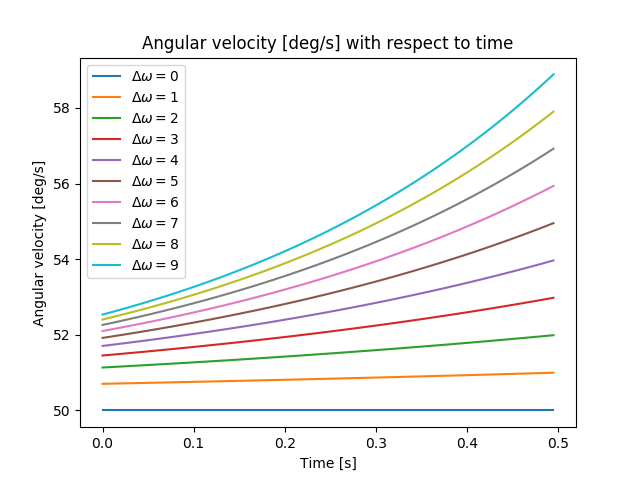
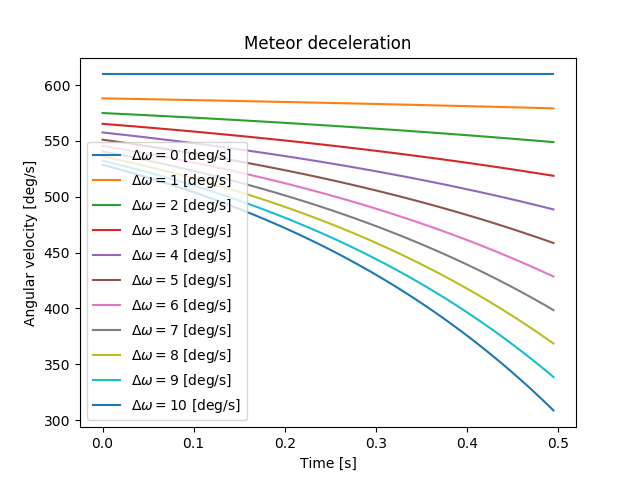
changed plotting parameters for the deceleration plot

diff --git a/Source/DecelerationPlot.py b/Source/DecelerationPlot.py
@@ -1,16 +1,17 @@
-import SimulationTools as st 
+import SimulationTools as st
+import Parameters as par
 import numpy as np 
 import matplotlib.pyplot as plt
 
 
 start = 0
-fin = 10
+fin = 11
 step = 1
 delta_omega = np.arange(start, fin, step)
 
 
 a = 1
-omega_start = 50
+omega_start = 20
 b_arr = []
 
 fin_t = 0.5
@@ -30,17 +31,17 @@ for i in range(len(delta_omega)):
 
 	for t in time_arr:
 
-		omega_arr_iter.append(omega_start + a*b_iter*np.exp(b_iter*t))
+		omega_arr_iter.append((omega_start - a*b_iter*np.exp(b_iter*t))*par.scale)
 
 	omega_arr.append(omega_arr_iter)
 
 
 for i in range(len(delta_omega)):
 
-	plt.plot(time_arr, omega_arr[i], label = r'$\Delta \omega = {}$'.format(delta_omega[i]))
+	plt.plot(time_arr, omega_arr[i], label = r'$\Delta \omega = {}$ [deg/s]'.format(delta_omega[i]))
 
 
-plt.title('Angular velocity [deg/s] with respect to time')
+plt.title('Meteor deceleration')
 plt.xlabel('Time [s]')
 plt.ylabel('Angular velocity [deg/s]')
 plt.legend(loc = 'best')
